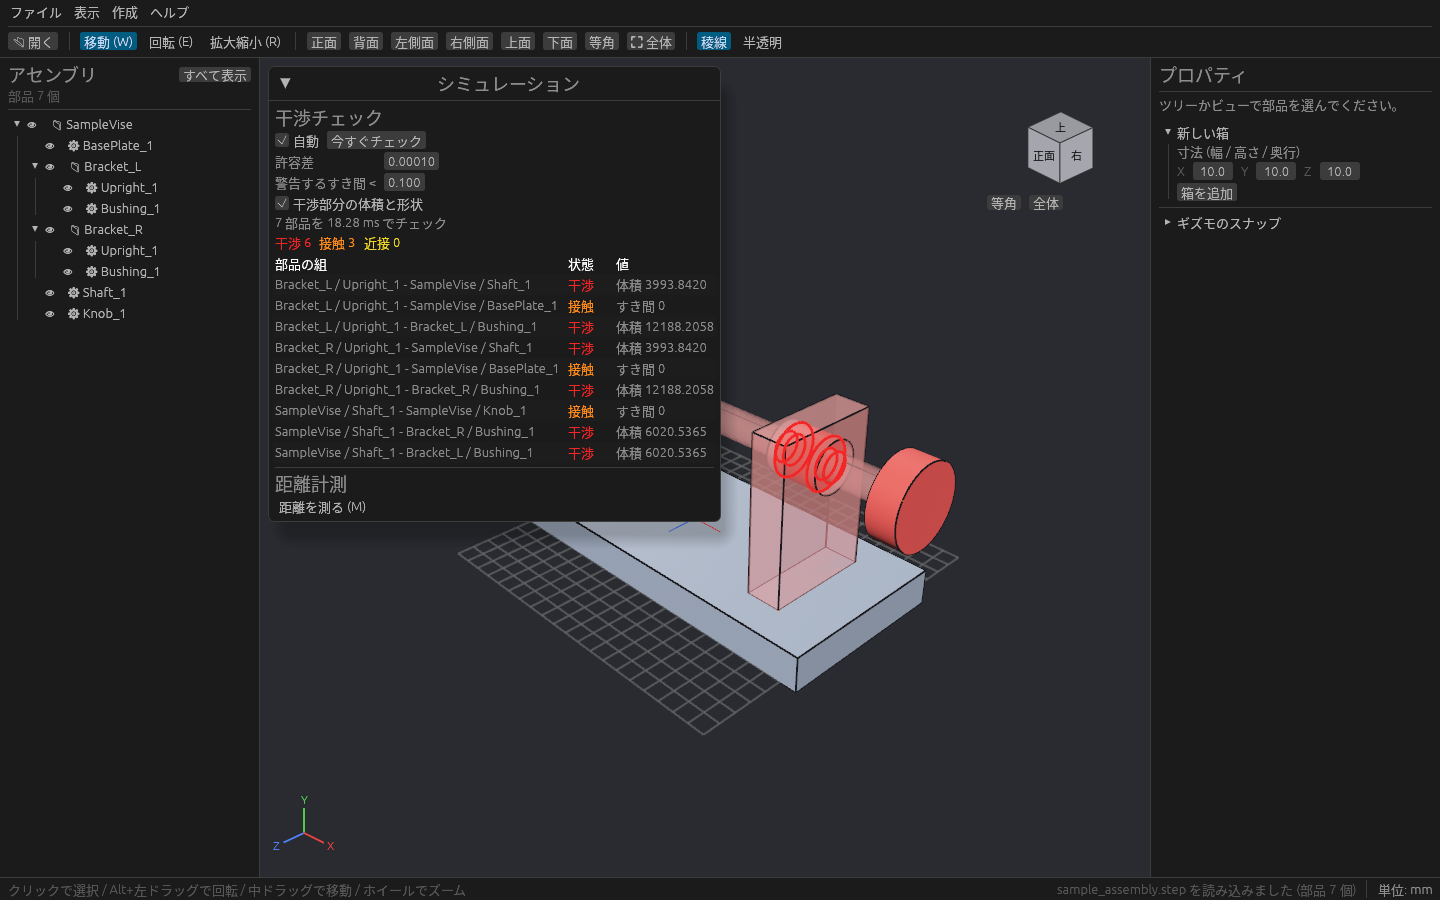
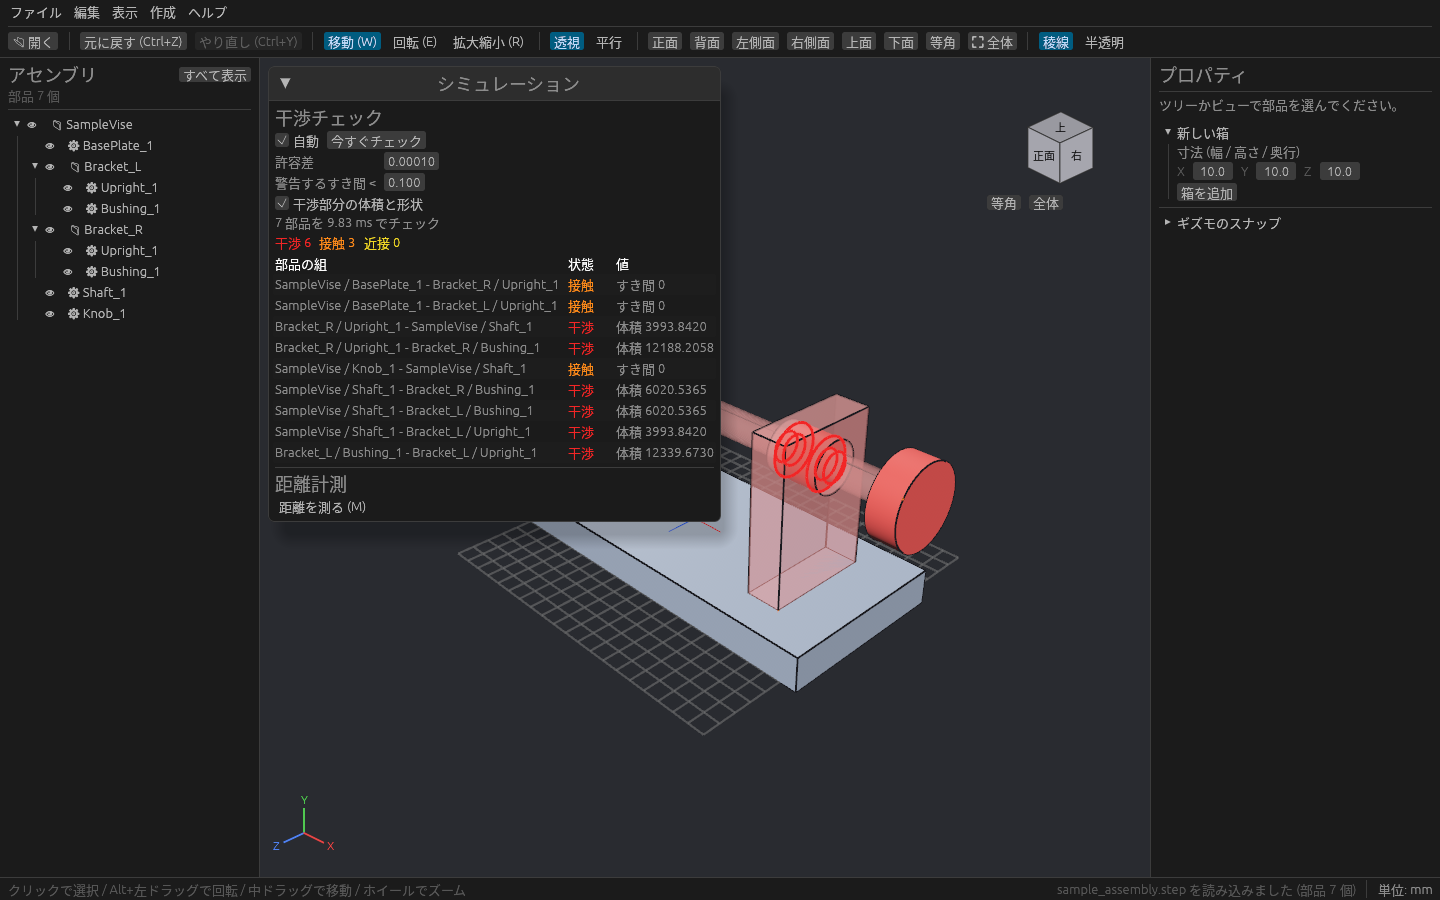
干渉チェックの並びを部品IDで安定させ、STEP サンプルの画面を更新

diff --git a/src/simulation/mod.rs b/src/simulation/mod.rs
@@ -142,7 +142,7 @@ fn run_interference_check(
     }
     let started = Instant::now();
     // 非表示にした部品は調べない
-    let inputs: Vec<Body> = bodies
+    let mut inputs: Vec<Body> = bodies
         .iter()
         .filter(|(_, visibility)| **visibility != Visibility::Hidden)
         .map(|(body, _)| Body {
@@ -151,6 +151,8 @@ fn run_interference_check(
             pose: body.pose,
         })
         .collect();
+    // 毎回同じ並びにして、一覧の順番と体積の近似を安定させる
+    inputs.sort_by_key(|body| body.id);
     let settings = CheckSettings {
         compute_overlap: false,
         ..check.settings
